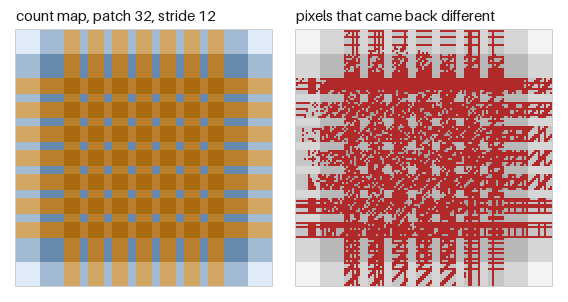
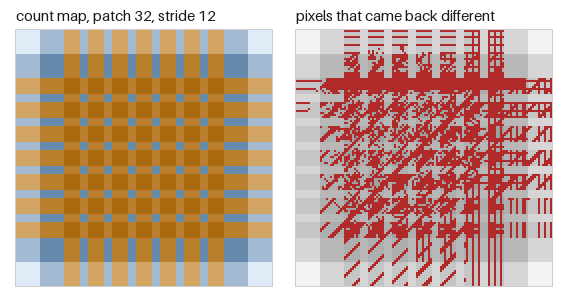
docs: guide figures drawn from an 8-bit test image, independent of the CPU
The check failed on 9 of 10 CI cells and passed locally and on one
runner, which points at last-bit differences between CPUs. The test
image is now computed in float64 and put on the 8-bit grid, the votes
figure takes exact float64 means, and on GitHub Actions the test prints
the check's problems as annotations. Five caption numbers moved with
the image; the count-map caption no longer calls a 7x7 map the same as
the 3x3 one printed above it.

Changed region(s): [[0.5088, 0.2384, 0.9877, 0.9536], [0.5986, 0.0894, 0.8979, 0.2384]]

diff --git a/tools/make_guide_figures.py b/tools/make_guide_figures.py
@@ -224,7 +224,7 @@ def fig_patch_order(img: torch.Tensor) -> Figure:
 
 def fig_count_map(img: torch.Tensor) -> Figure:
     shape = tuple(img.shape)
-    _, nw = num_patches(shape, patch_size=32, stride=16)
+    nh, nw = num_patches(shape, patch_size=32, stride=16)
     counts = count_map(shape, 32, 16)
     assert sorted({int(v) for v in counts.unique()}) == [1, 2, 4]
     stack = extract(img, patch_size=32, stride=16)
@@ -249,13 +249,15 @@ def fig_count_map(img: torch.Tensor) -> Figure:
     corner = (slice(None), slice(0, 64), slice(0, 64))
     fig.panel(img[corner], (M + PANEL + GAP, TOP), 4, "the image, top-left corner")
     fig.panel(back[corner], (M + 2 * (PANEL + GAP), TOP), 4, "patches[0] set to white, reconstruct")
+    fig.claim(f"{nh}\u00d7{nw} grid")                 # the GUIDE's multiplication sign
     fig.claim("half")
     fig.claim("a quarter")
     return fig
 
 
 def fig_votes(img: torch.Tensor) -> Figure:
-    grey = img.mean(0, keepdim=True)
+    # float64, where the mean of a patch is exact and so independent of the summation order.
+    grey = img.double().mean(0, keepdim=True)
     per_patch = {}
     for s in (32, 16):
         p = extract(grey, patch_size=32, stride=s)
@@ -437,9 +439,27 @@ def fig_antialias() -> Figure:
     return fig
 
 
+def guide_image() -> torch.Tensor:
+    """The outreach test image on the 8-bit grid, as an image read from a file would be.
+
+    The outreach version is float32 built with a vectorized cos, whose last bit
+    may differ between CPUs. Here it is computed in float64 and rounded to
+    multiples of 1/255, so that no such difference reaches a pixel, and every
+    8-bit conversion below is exact.
+    """
+    previous = torch.get_default_dtype()
+    torch.set_default_dtype(torch.float64)            # test_image divides integers
+    try:
+        img = outreach.test_image().double()
+    finally:
+        torch.set_default_dtype(previous)
+    return ((img * 255).round() / 255).float()
+
+
 def build_all() -> list[Figure]:
     torch.set_num_threads(1)                           # reductions independent of the core count
-    img = outreach.test_image()
+    img = guide_image()
+    assert torch.equal(img, (img * 255).round() / 255)
     builders = [fig_silent, fig_patch_order, fig_count_map, fig_votes, fig_where_it_misses,
                 fig_windows, fig_halo, fig_pair]
     figures = []

diff --git a/tests/test_docs_figures.py b/tests/test_docs_figures.py
@@ -11,6 +11,7 @@ change that moves a figure fails the suite, the way a stale line in
 
 from __future__ import annotations
 
+import os
 import subprocess
 import sys
 from pathlib import Path
@@ -27,6 +28,13 @@ def test_guide_figures_match_a_fresh_render():
         errors="replace",
         cwd=TOOL.parent.parent,
     )
+    if result.returncode and os.environ.get("GITHUB_ACTIONS") == "true":
+        # Printed lines of this form become annotations on the run, which name
+        # the figure without opening the log.
+        lines = [line for line in result.stdout.splitlines() if line.startswith("PROBLEM")]
+        lines += result.stderr.strip().splitlines()[-1:]
+        for line in lines:
+            print(f"::error file=tools/make_guide_figures.py::{line}")
     assert result.returncode == 0, (
         "the GUIDE figures or their captions no longer match a fresh render:\n"
         f"{result.stdout[-4000:]}\n{result.stderr[-2000:]}"

diff --git a/docs/GUIDE.md b/docs/GUIDE.md
@@ -28,7 +28,7 @@ Because two defects wait there, both silent, and you meet them within the first 
 
 ![Three panels: a 128 by 128 test image with gradients, rings, a yellow bar and stripes; the same image after unfold and the intuitive reshape, which comes back as grey stripes; and a fold by hand at patch 32 and stride 20, with a black band along the right and bottom edges.](figures/1-silent.png)
 
-Both defects on a 128×128 test image. In the middle, the patches of the intuitive reshape put back where `extract`'s patches go: every value is still there, and 99.6 percent of the positions now hold a different one. On the right, a fold by hand at patch 32 and stride 20 leaves 3840 pixels black, 23.4 percent of the image. Neither raises an error.
+Both defects on a 128×128 test image. In the middle, the patches of the intuitive reshape put back where `extract`'s patches go: every value is still there, and 99.2 percent of the positions now hold a different one. On the right, a fold by hand at patch 32 and stride 20 leaves 3840 pixels black, 23.4 percent of the image. Neither raises an error.
 
 ### The reshape after `unfold` scrambles the pixels
 
@@ -304,7 +304,7 @@ Which values appear in this map is what decides whether the round trip comes bac
 
 ![Three panels: the count map of patch 32 at stride 16 on the test image, light at the corners, darker on the edges and darkest inside, with the four patches that meet at the top-left corner outlined; the top-left corner of the test image; and the same corner after patch 0 is set to white and the stack is reconstructed, where a white square is followed by paler squares.](figures/2-count-map.png)
 
-The same map for patch 32 at stride 16 on the test image, with the four patches that overlap at its corner outlined. On the right, patch 0, outlined in red, was set to white before `reconstruct`. The corner only patch 0 covers turns white, the two squares it shares with one other patch move half of the way to white, and the square it shares with three others moves a quarter of the way, because each pixel comes back as the mean of what its patches say.
+The same pattern for patch 32 at stride 16 on the test image, a 7×7 grid, with the four patches that overlap near its top-left corner outlined. On the right, patch 0, outlined in red, was set to white before `reconstruct`. The corner only patch 0 covers turns white, the two squares it shares with one other patch move half of the way to white, and the square it shares with three others moves a quarter of the way, because each pixel comes back as the mean of what its patches say.
 
 ### What `reconstruct` returns when the patches disagree
 
@@ -342,7 +342,7 @@ There are three ways out, depending on what you need. Decide once for the whole 
 
 ![Three black and white panels from the test image: a threshold per 32-pixel patch at stride 32, which stays black and white; the same at stride 16, which shows grey squares wherever the patches disagree; and one threshold for the whole image before cutting, black and white again.](figures/2-votes.png)
 
-The same experiment on the test image in grey, with 32-pixel patches, each thresholded against its own mean. At stride 32 every pixel gets one decision. At stride 16, 39.6 percent of the pixels come back at 0.25, 0.5 or 0.75, because their patches disagreed. Thresholding once before cutting, on the right, is the first way out.
+The same experiment on the test image in grey, with 32-pixel patches, each thresholded against its own mean. At stride 32 every pixel gets one decision. At stride 16, 39.5 percent of the pixels come back at 0.25, 0.5 or 0.75, because their patches disagreed. Thresholding once before cutting, on the right, is the first way out.
 
 ## 3. Dtypes and files
 
@@ -516,7 +516,7 @@ Every pixel that changed sits on a 3, a 6 or a 9, and no pixel on a 1, 2 or 4 ch
 
 ![Two panels: the count map of patch 32 at stride 12 on the test image, a plaid of blue where the count is 1, 2 or 4 and amber where it is 3, 6 or 9; and, in red over a faded copy of the map, the pixels that came back different, every one of them on amber.](figures/4-where-it-misses.png)
 
-The same reading at a size you can see: the float32 test image at patch 32 and stride 12, whose map holds 1, 2, 3, 4, 6 and 9. Every red pixel sits on amber, and 71 percent of the amber pixels changed. The largest miss is 1.1921e-07, a PSNR of 151.5 dB and 32,897 times smaller than one step of an 8-bit image, and the image saved as 8 bits is identical to the original.
+The same reading at a size you can see: the float32 test image at patch 32 and stride 12, whose map holds 1, 2, 3, 4, 6 and 9. Every red pixel sits on amber, and 54 percent of the amber pixels changed. The largest miss is 1.1921e-07, a PSNR of 152.2 dB and 32,897 times smaller than one step of an 8-bit image, and the image saved as 8 bits is identical to the original.
 
 So the round trip in `float32` and `float64` is `torch.equal` exact **when every value in the count map is a power of two**. Two geometries guarantee that without any checking at all: `stride == patch_size` on both axes, where the map is all ones, and `stride == patch_size / 2`, where the map holds only 1, 2 and 4.
 
@@ -775,7 +775,7 @@ halo of 2: bit-identical to the whole-image blur: True
 
 ![Three panels: the test image with one 32-pixel tile outlined in black and its 2-pixel halo in white; in red over a faded copy, the pixels where tiles blurred without a halo differ from the blur of the whole image, a band along every tile boundary; and the same comparison with a halo, where no pixel is red.](figures/5-halo.png)
 
-The same 5×5 blur on the 128×128 test image with 32-pixel tiles, compared after rounding to 8 bits. Without a halo, 15.9 percent of the pixels differ from the blur of the whole image, by up to 102/255, and all of them lie within 2 pixels of a tile boundary. With a halo, none differs.
+The same 5×5 blur on the 128×128 test image with 32-pixel tiles, compared after rounding to 8 bits. Without a halo, 15.4 percent of the pixels differ from the blur of the whole image, by up to 102/255, and all of them lie within 2 pixels of a tile boundary. With a halo, none differs.
 
 Without a halo, each tile meets an edge where the image goes on, and the blur there is computed from reflected pixels instead of the real neighbours, so it is wrong within `r` of every tile boundary. With a halo, each tile carries `r` extra pixels on every side, the convolution runs without padding and returns exactly the 16×16 centre, and `reconstruct`, at `stride == patch_size`, only puts the centres side by side. This is the overlap-save method of block convolution, and it is why nothing needed blending.
 

diff --git a/CHANGELOG.md b/CHANGELOG.md
@@ -21,8 +21,11 @@ adheres to [Semantic Versioning](https://semver.org/spec/v2.0.0.html).
   on more than 0.1 percent of its pixels outside the labels, if a caption no
   longer states a measured number, or if an image and the GUIDE stop linking
   to each other. Falsified: a 400-pixel change and a 1/255 shift across one
-  panel fail it, and one pixel off by 1/255 does not. It passes on both code
-  paths, at torch 2.6 with Pillow 10.1 and at torch 2.14 with Pillow 12.3.
+  panel fail it, and one pixel off by 1/255 does not. The test image is the
+  outreach one computed in float64 and put on the 8-bit grid, so that a
+  last-bit difference between CPUs, which a vectorized float32 `cos` may
+  produce, reaches no pixel. It passes on both code paths, at torch 2.6 with
+  Pillow 10.1 and at torch 2.14 with Pillow 12.3.
   The images add 263 KB to the sdist, which carries them because the suite
   it ships runs the check.
 
